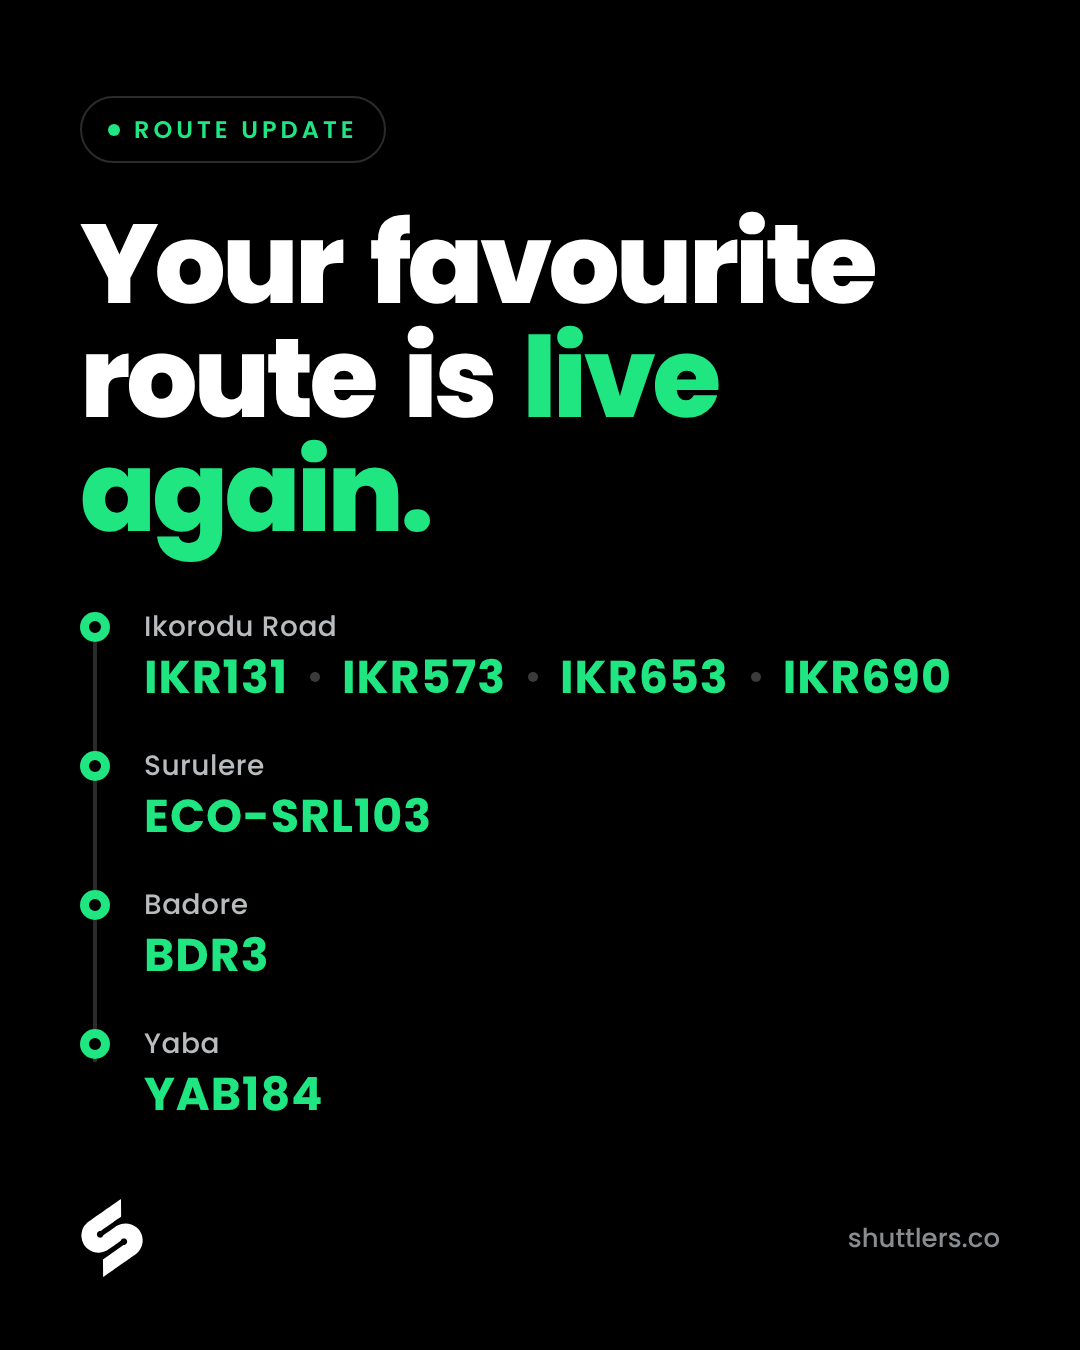
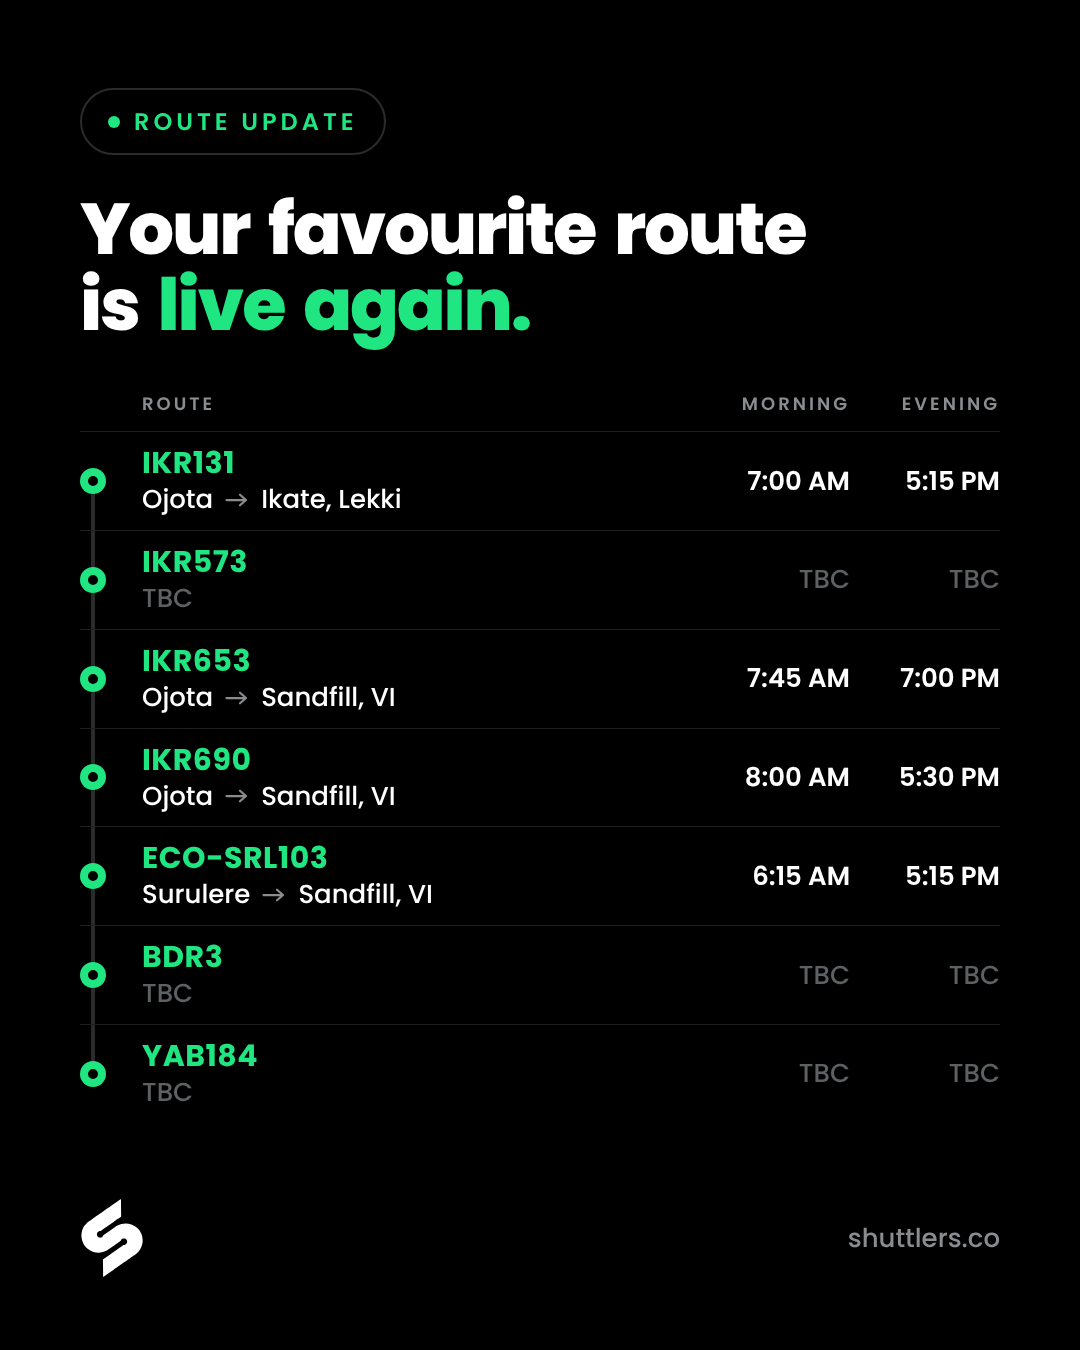
Route reactivation posts: A-to-B route table with morning/evening times, smaller headline
Claude-Session: https://claude.ai/code/session_01ApNoEGoK6cJkGfaQAP275M

diff --git a/social/route-reactivation/posts.html b/social/route-reactivation/posts.html
@@ -13,7 +13,7 @@
 *{box-sizing:border-box;margin:0;padding:0}
 body{background:#1a1a1a;font-family:Poppins,sans-serif;-webkit-font-smoothing:antialiased;padding:40px;display:flex;flex-wrap:wrap;gap:40px}
 .frame{position:relative;overflow:hidden;flex:none}
-.pad{position:absolute;inset:0;padding:96px 80px 0}
+.pad{position:absolute;inset:0;padding:88px 80px 0}
 .pad.story{padding-top:220px}
 .pill{display:inline-flex;align-items:center;gap:14px;border:2px solid;border-radius:999px;padding:14px 26px;font-weight:600;font-size:24px;letter-spacing:4px}
 .pill i{width:12px;height:12px;border-radius:50%}
@@ -23,7 +23,7 @@ body{background:#1a1a1a;font-family:Poppins,sans-serif;-webkit-font-smoothing:an
 .routewrap{margin-top:96px}
 .story .routewrap{margin-top:140px}
 .kicker{font-weight:700;font-size:24px;letter-spacing:4px}
-.h2{font-weight:800;font-size:128px;line-height:1;letter-spacing:-.035em;word-spacing:.1em;margin-top:40px}
+.h2{font-weight:800;font-size:104px;line-height:1;letter-spacing:-.035em;word-spacing:.1em;margin-top:40px}
 .list{list-style:none;margin-top:84px;display:flex;flex-direction:column;gap:0}
 .list li{display:flex;gap:36px;align-items:baseline;padding:34px 0;border-top:3px solid rgba(0,0,0,.85);font-size:40px;line-height:1.3;font-weight:500}
 .list li:last-child{border-bottom:3px solid rgba(0,0,0,.85)}
@@ -35,15 +35,19 @@ body{background:#1a1a1a;font-family:Poppins,sans-serif;-webkit-font-smoothing:an
 .story .cta{margin-top:72px}
 .chips{display:grid;grid-template-columns:repeat(3,1fr);gap:22px;margin-top:84px}
 .chip{background:#000;color:#20E682;border-radius:22px;padding:30px 0;text-align:center;font-weight:700;font-size:40px;letter-spacing:2px}
-.hero.sm{font-size:112px;line-height:1.02;margin-top:44px}
-.rlist{list-style:none;margin-top:56px;position:relative}
-.rlist:before{content:"";position:absolute;left:13px;top:24px;bottom:60px;width:4px;background:#2A2B2D}
-.rlist li{position:relative;display:flex;align-items:flex-start;gap:34px;padding:0 0 40px}
-.rlist li:last-child{padding-bottom:0}
-.rlist .stop{width:30px;height:30px;border-radius:50%;box-shadow:inset 0 0 0 9px #20E682,inset 0 0 0 30px #000;flex:none;margin-top:6px;position:relative}
-.rlist .area{display:block;color:#B9BCBE;font-size:28px;font-weight:500;letter-spacing:.5px}
-.rlist .codes{display:flex;align-items:center;flex-wrap:wrap;color:#20E682;font-size:46px;font-weight:700;letter-spacing:1px;line-height:1.2;margin-top:2px}
-.rlist .sep{width:10px;height:10px;border-radius:50%;background:#3A3B3D;margin:0 22px}
+.hero.sm{font-size:72px;line-height:1.05;letter-spacing:-.03em;margin-top:36px}
+.rhead{display:grid;grid-template-columns:1fr 150px 150px;padding-left:62px;margin-top:48px;color:#8A8D90;font-weight:600;font-size:18px;letter-spacing:3px}
+.rhead span:not(:first-child){text-align:right}
+.rlist{list-style:none;margin-top:14px;position:relative}
+.rlist:before{content:"";position:absolute;left:11px;top:40px;bottom:40px;width:4px;background:#2A2B2D}
+.rlist li{display:grid;grid-template-columns:26px 1fr 150px 150px;column-gap:36px;align-items:center;padding:13px 0;border-top:1px solid #1E1F21;position:relative}
+.rlist li{column-gap:0}.rlist .rmain{padding-left:36px}
+.rlist .stop{width:26px;height:26px;border-radius:50%;box-shadow:inset 0 0 0 8px #20E682,inset 0 0 0 26px #000;position:relative;z-index:1}
+.rlist b{display:block;color:#20E682;font-weight:700;font-size:30px;letter-spacing:.5px;line-height:1.2}
+.rlist .ab{display:flex;align-items:center;color:#fff;font-size:26px;font-weight:500;line-height:1.3;margin-top:2px}
+.rlist .arr{width:24px;height:16px;margin:0 12px;flex:none}
+.rlist .time{text-align:right;color:#fff;font-size:26px;font-weight:600}
+.rlist .tbc{color:#5E6163;font-weight:500}
 .note{font-size:32px;margin-top:56px;line-height:1.4}
 .foot{position:absolute;left:80px;right:80px;bottom:72px;display:flex;justify-content:space-between;align-items:center}
 .brand{display:flex;align-items:center;gap:6px;font-weight:700;font-size:40px;letter-spacing:-.02em}
@@ -54,13 +58,38 @@ body{background:#1a1a1a;font-family:Poppins,sans-serif;-webkit-font-smoothing:an
 <section class="frame" id="f-01-hero-4x5" style="width:1080px;height:1350px;background:#000000">
       <div class="pad">
         <div class="pill" style="border-color:#2A2B2D;color:#20E682"><i style="background:#20E682"></i>ROUTE UPDATE</div>
-        <h1 class="hero sm" style="color:#fff">Your favourite<br>route is <em style="color:#20E682">live again.</em></h1>
+        <h1 class="hero sm" style="color:#fff">Your favourite route<br>is <em style="color:#20E682">live again.</em></h1>
         
+  <div class="rhead"><span>ROUTE</span><span>MORNING</span><span>EVENING</span></div>
   <ul class="rlist">
-    <li><i class="stop"></i><div><span class="area">Ikorodu Road</span><span class="codes">IKR131<i class="sep"></i>IKR573<i class="sep"></i>IKR653<i class="sep"></i>IKR690</span></div></li>
-    <li><i class="stop"></i><div><span class="area">Surulere</span><span class="codes">ECO-SRL103</span></div></li>
-    <li><i class="stop"></i><div><span class="area">Badore</span><span class="codes">BDR3</span></div></li>
-    <li><i class="stop"></i><div><span class="area">Yaba</span><span class="codes">YAB184</span></div></li>
+    <li><i class="stop"></i>
+      <div class="rmain"><b>IKR131</b><span class="ab">Ojota<svg class="arr" viewBox="0 0 32 20"><path d="M2 10h26M20 3l8 7-8 7" fill="none" stroke="#8A8D90" stroke-width="3" stroke-linecap="round" stroke-linejoin="round"/></svg>Ikate, Lekki</span></div>
+      <span class="time">7:00 AM</span><span class="time">5:15 PM</span>
+    </li>
+    <li><i class="stop"></i>
+      <div class="rmain"><b>IKR573</b><span class="ab"><span class="tbc">TBC</span></span></div>
+      <span class="time"><span class="tbc">TBC</span></span><span class="time"><span class="tbc">TBC</span></span>
+    </li>
+    <li><i class="stop"></i>
+      <div class="rmain"><b>IKR653</b><span class="ab">Ojota<svg class="arr" viewBox="0 0 32 20"><path d="M2 10h26M20 3l8 7-8 7" fill="none" stroke="#8A8D90" stroke-width="3" stroke-linecap="round" stroke-linejoin="round"/></svg>Sandfill, VI</span></div>
+      <span class="time">7:45 AM</span><span class="time">7:00 PM</span>
+    </li>
+    <li><i class="stop"></i>
+      <div class="rmain"><b>IKR690</b><span class="ab">Ojota<svg class="arr" viewBox="0 0 32 20"><path d="M2 10h26M20 3l8 7-8 7" fill="none" stroke="#8A8D90" stroke-width="3" stroke-linecap="round" stroke-linejoin="round"/></svg>Sandfill, VI</span></div>
+      <span class="time">8:00 AM</span><span class="time">5:30 PM</span>
+    </li>
+    <li><i class="stop"></i>
+      <div class="rmain"><b>ECO-SRL103</b><span class="ab">Surulere<svg class="arr" viewBox="0 0 32 20"><path d="M2 10h26M20 3l8 7-8 7" fill="none" stroke="#8A8D90" stroke-width="3" stroke-linecap="round" stroke-linejoin="round"/></svg>Sandfill, VI</span></div>
+      <span class="time">6:15 AM</span><span class="time">5:15 PM</span>
+    </li>
+    <li><i class="stop"></i>
+      <div class="rmain"><b>BDR3</b><span class="ab"><span class="tbc">TBC</span></span></div>
+      <span class="time"><span class="tbc">TBC</span></span><span class="time"><span class="tbc">TBC</span></span>
+    </li>
+    <li><i class="stop"></i>
+      <div class="rmain"><b>YAB184</b><span class="ab"><span class="tbc">TBC</span></span></div>
+      <span class="time"><span class="tbc">TBC</span></span><span class="time"><span class="tbc">TBC</span></span>
+    </li>
   </ul>
       </div>
       
@@ -102,13 +131,38 @@ body{background:#1a1a1a;font-family:Poppins,sans-serif;-webkit-font-smoothing:an
 <section class="frame story" id="f-05-story-9x16" style="width:1080px;height:1920px;background:#000000">
       <div class="pad story">
         <div class="pill" style="border-color:#2A2B2D;color:#20E682"><i style="background:#20E682"></i>ROUTE UPDATE</div>
-        <h1 class="hero sm" style="color:#fff">Your favourite<br>route is <em style="color:#20E682">live again.</em></h1>
+        <h1 class="hero sm" style="color:#fff">Your favourite route<br>is <em style="color:#20E682">live again.</em></h1>
         
+  <div class="rhead"><span>ROUTE</span><span>MORNING</span><span>EVENING</span></div>
   <ul class="rlist">
-    <li><i class="stop"></i><div><span class="area">Ikorodu Road</span><span class="codes">IKR131<i class="sep"></i>IKR573<i class="sep"></i>IKR653<i class="sep"></i>IKR690</span></div></li>
-    <li><i class="stop"></i><div><span class="area">Surulere</span><span class="codes">ECO-SRL103</span></div></li>
-    <li><i class="stop"></i><div><span class="area">Badore</span><span class="codes">BDR3</span></div></li>
-    <li><i class="stop"></i><div><span class="area">Yaba</span><span class="codes">YAB184</span></div></li>
+    <li><i class="stop"></i>
+      <div class="rmain"><b>IKR131</b><span class="ab">Ojota<svg class="arr" viewBox="0 0 32 20"><path d="M2 10h26M20 3l8 7-8 7" fill="none" stroke="#8A8D90" stroke-width="3" stroke-linecap="round" stroke-linejoin="round"/></svg>Ikate, Lekki</span></div>
+      <span class="time">7:00 AM</span><span class="time">5:15 PM</span>
+    </li>
+    <li><i class="stop"></i>
+      <div class="rmain"><b>IKR573</b><span class="ab"><span class="tbc">TBC</span></span></div>
+      <span class="time"><span class="tbc">TBC</span></span><span class="time"><span class="tbc">TBC</span></span>
+    </li>
+    <li><i class="stop"></i>
+      <div class="rmain"><b>IKR653</b><span class="ab">Ojota<svg class="arr" viewBox="0 0 32 20"><path d="M2 10h26M20 3l8 7-8 7" fill="none" stroke="#8A8D90" stroke-width="3" stroke-linecap="round" stroke-linejoin="round"/></svg>Sandfill, VI</span></div>
+      <span class="time">7:45 AM</span><span class="time">7:00 PM</span>
+    </li>
+    <li><i class="stop"></i>
+      <div class="rmain"><b>IKR690</b><span class="ab">Ojota<svg class="arr" viewBox="0 0 32 20"><path d="M2 10h26M20 3l8 7-8 7" fill="none" stroke="#8A8D90" stroke-width="3" stroke-linecap="round" stroke-linejoin="round"/></svg>Sandfill, VI</span></div>
+      <span class="time">8:00 AM</span><span class="time">5:30 PM</span>
+    </li>
+    <li><i class="stop"></i>
+      <div class="rmain"><b>ECO-SRL103</b><span class="ab">Surulere<svg class="arr" viewBox="0 0 32 20"><path d="M2 10h26M20 3l8 7-8 7" fill="none" stroke="#8A8D90" stroke-width="3" stroke-linecap="round" stroke-linejoin="round"/></svg>Sandfill, VI</span></div>
+      <span class="time">6:15 AM</span><span class="time">5:15 PM</span>
+    </li>
+    <li><i class="stop"></i>
+      <div class="rmain"><b>BDR3</b><span class="ab"><span class="tbc">TBC</span></span></div>
+      <span class="time"><span class="tbc">TBC</span></span><span class="time"><span class="tbc">TBC</span></span>
+    </li>
+    <li><i class="stop"></i>
+      <div class="rmain"><b>YAB184</b><span class="ab"><span class="tbc">TBC</span></span></div>
+      <span class="time"><span class="tbc">TBC</span></span><span class="time"><span class="tbc">TBC</span></span>
+    </li>
   </ul>
         <div class="cta" style="background:#20E682;color:#000000">Tap to book your seat</div>
       </div>

diff --git a/social/route-reactivation/CAPTIONS.md b/social/route-reactivation/CAPTIONS.md
@@ -2,14 +2,17 @@
 
 Voice follows the existing Shuttlers route copy (Ads_Copy_Underutilized_Routes, Billboard copy, "Your Route Is Back in Service"): warm, short and commuter-first, with a light touch of pidgin. Spelling is "favourite" (Nigerian/British English).
 
-Routes are grouped by pickup area, as in the route ads sheet:
+Route details (from the Shuttlers route flyers on Drive). **TBC rows still need pickup, destination and times.** Please also confirm the times are unchanged since the routes were paused.
 
-| Area | Codes |
-| --- | --- |
-| Ikorodu Road | IKR131, IKR573, IKR653, IKR690 |
-| Surulere | ECO-SRL103 |
-| Badore | BDR3 |
-| Yaba | YAB184 |
+| Code | From → To | Morning | Evening | Source |
+| --- | --- | --- | --- | --- |
+| IKR131 | Ojota → Ikate, Lekki | 7:00 AM | 5:15 PM | Route flyer, Nov 2026 |
+| IKR573 | TBC | TBC | TBC | not on Drive |
+| IKR653 | Ojota → Sandfill, VI | 7:45 AM | 7:00 PM | Route flyer, Jun 2026 |
+| IKR690 | Ojota → Sandfill, VI | 8:00 AM | 5:30 PM | Route flyer, Oct 2026 |
+| ECO-SRL103 | Surulere → Sandfill, VI | 6:15 AM | 5:15 PM | Route flyer, Jun 2026 |
+| BDR3 | TBC | TBC | TBC | not on Drive |
+| YAB184 | TBC | TBC | TBC | not on Drive |
 
 If you have a start date, add "from [DATE]" after "back on the road".
 
@@ -21,10 +24,13 @@ If you have a start date, add "from [DATE]" after "back on the road".
 >
 > These Shuttlers routes are back on the road:
 >
-> 📍 Ikorodu Road: IKR131, IKR573, IKR653, IKR690
-> 📍 Surulere: ECO-SRL103
-> 📍 Badore: BDR3
-> 📍 Yaba: YAB184
+> 📍 IKR131 · Ojota → Ikate, Lekki · 7:00 AM / 5:15 PM
+> 📍 IKR573 · [FROM] → [TO] · [AM] / [PM]
+> 📍 IKR653 · Ojota → Sandfill, VI · 7:45 AM / 7:00 PM
+> 📍 IKR690 · Ojota → Sandfill, VI · 8:00 AM / 5:30 PM
+> 📍 ECO-SRL103 · Surulere → Sandfill, VI · 6:15 AM / 5:15 PM
+> 📍 BDR3 · [FROM] → [TO] · [AM] / [PM]
+> 📍 YAB184 · [FROM] → [TO] · [AM] / [PM]
 >
 > Same guaranteed seat. Same AC. No bus-stop wahala.
 >
@@ -32,7 +38,7 @@ If you have a start date, add "from [DATE]" after "back on the road".
 >
 > #Shuttlers #LagosCommute #MoveBetter #LagosTraffic
 
-**Alt text (slide 1):** Black graphic that reads "Your favourite route is live again." with "live again" in green. Below it, the reactivated route codes are grouped by area: Ikorodu Road (IKR131, IKR573, IKR653, IKR690), Surulere (ECO-SRL103), Badore (BDR3) and Yaba (YAB184).
+**Alt text (slide 1):** Black graphic that reads "Your favourite route is live again." with "live again" in green. Below it, a table lists each reactivated route with its code, pickup area, destination, morning departure and evening return time.
 
 ---
 
@@ -46,12 +52,11 @@ Sticker: **Link → "Book your seat"** (place it over or just below the green bu
 
 > Your favourite route is live again. 🚌
 >
-> Ikorodu Road: IKR131, IKR573, IKR653, IKR690
-> Surulere: ECO-SRL103
-> Badore: BDR3
-> Yaba: YAB184
+> IKR131, IKR573, IKR653, IKR690, ECO-SRL103, BDR3 and YAB184 are back on the road.
 >
-> Search your code on the Shuttlers app and book your seat. 💚
+> Routes and times are in the image 👇 Search your code on the Shuttlers app and book your seat. 💚
+
+*(Attach slide 01; the full list with times won't fit in 280 characters.)*
 
 ---
 
@@ -61,10 +66,13 @@ Sticker: **Link → "Book your seat"** (place it over or just below the green bu
 >
 > These Shuttlers routes are back on the road:
 >
-> • Ikorodu Road: IKR131, IKR573, IKR653, IKR690
-> • Surulere: ECO-SRL103
-> • Badore: BDR3
-> • Yaba: YAB184
+> • IKR131 · Ojota → Ikate, Lekki · 7:00 AM / 5:15 PM
+> • IKR573 · [FROM] → [TO] · [AM] / [PM]
+> • IKR653 · Ojota → Sandfill, VI · 7:45 AM / 7:00 PM
+> • IKR690 · Ojota → Sandfill, VI · 8:00 AM / 5:30 PM
+> • ECO-SRL103 · Surulere → Sandfill, VI · 6:15 AM / 5:15 PM
+> • BDR3 · [FROM] → [TO] · [AM] / [PM]
+> • YAB184 · [FROM] → [TO] · [AM] / [PM]
 >
 > To book, open the Shuttlers app, search the route code and reserve your seat. HR and admin teams, please share this with colleagues who ride with us.
 >
